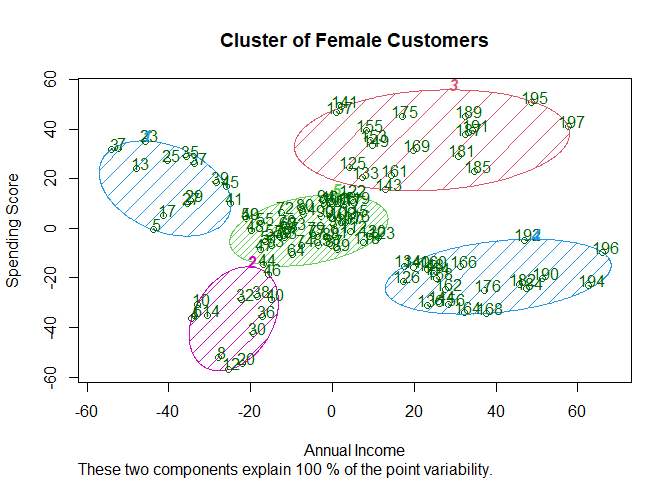
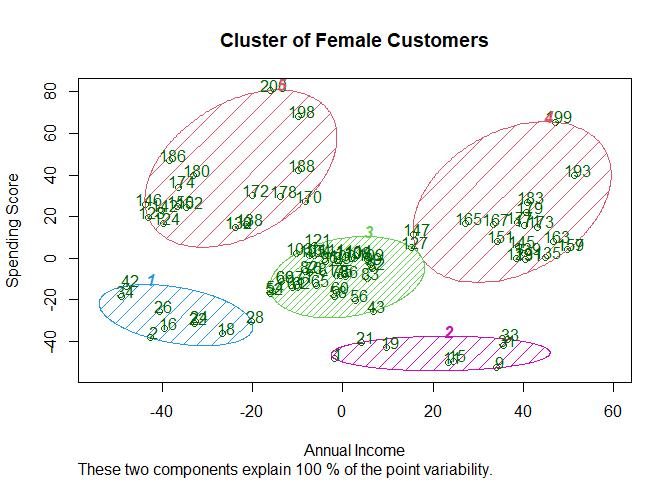
Cluster - KMeans

diff --git a/Cluster - KMeans/readme.md b/Cluster - KMeans/readme.md
@@ -13,7 +13,6 @@ library(ggplot2)
 ```
 
 
-
 ```r
 dataset<-read.csv('Mall_Customers.csv')
 head(dataset)
@@ -54,10 +53,22 @@ summary(dataset)
 
 ```r
 ggplot(data = dataset, aes(x = 'Annual Income (k$)', y = Age, fill = Genre)) + 
-        geom_violin()
+  geom_violin() +
+  ggtitle("Annual Income (k$)")
 ```
 
 ![](Customer-Segmentation_files/figure-html/unnamed-chunk-4-1.png)<!-- -->
+
+
+```r
+ggplot(data = dataset, aes(x = 'Spending Score (1-100)', y = Age, fill = Genre)) + 
+  geom_violin() +
+  ggtitle("Spending Score (1-100)")
+```
+
+![](Customer-Segmentation_files/figure-html/unnamed-chunk-5-1.png)<!-- -->
+
+## Two Features
 
 
 ```r
@@ -71,29 +82,99 @@ set.seed(12)
 wcss<-vector()
 
 for(i in 1:10) 
-        wcss[i]<- sum(kmeans(male, i)$withinss)
+  wcss[i]<- sum(kmeans(male, i)$withinss)
 plot(1:10, wcss, type="b", main=paste('Clusters vs. WCSS'),xlab='Number of Clusters for Male', ylab='Within Cluster Sum of Squares (WCSS)')
-```
-
-![](Customer-Segmentation_files/figure-html/unnamed-chunk-6-1.png)<!-- -->
-
-
-```r
-for(i in 1:10) 
-        wcss[i]<- sum(kmeans(female, i)$withinss)
-plot(1:10, wcss, type="b", main=paste('Clusters vs. WCSS'),xlab='Number of Clusters for Female', ylab='Within Cluster Sum of Squares (WCSS)')
 ```
 
 ![](Customer-Segmentation_files/figure-html/unnamed-chunk-7-1.png)<!-- -->
 
+
 ```r
-set.seed(29)
+for(i in 1:10) 
+  wcss[i]<- sum(kmeans(female, i)$withinss)
+plot(1:10, wcss, type="b", main=paste('Clusters vs. WCSS'),xlab='Number of Clusters for Female', ylab='Within Cluster Sum of Squares (WCSS)')
+```
+
+![](Customer-Segmentation_files/figure-html/unnamed-chunk-8-1.png)<!-- -->
+
+
+```r
 kmeans_male<-kmeans(male, 5,iter.max=300, nstart=10)
+kmeans_male
+```
+
+```
+## K-means clustering with 5 clusters of sizes 9, 8, 34, 19, 18
+## 
+## Cluster means:
+##   Annual.Income..k.. Spending.Score..1.100.
+## 1           25.77778               77.66667
+## 2           22.87500               17.62500
+## 3           54.73529               49.85294
+## 4           85.89474               12.94737
+## 5           87.11111               82.66667
+## 
+## Clustering vector:
+##   1   2   9  11  15  16  18  19  21  22  24  26  28  31  33  34  42  43  52  54 
+##   2   1   2   2   2   1   1   2   2   1   1   1   1   2   2   1   1   3   3   3 
+##  56  58  60  61  62  65  66  69  71  75  76  78  81  82  83  86  92  93  96  99 
+##   3   3   3   3   3   3   3   3   3   3   3   3   3   3   3   3   3   3   3   3 
+## 100 103 104 105 108 109 110 111 114 121 124 127 128 129 130 131 132 135 138 139 
+##   3   3   3   3   3   3   3   3   3   3   5   3   5   4   5   4   5   4   5   4 
+## 142 145 146 147 150 151 152 157 159 163 165 167 170 171 172 173 174 177 178 179 
+##   5   4   5   4   5   4   5   4   4   4   4   4   5   4   5   4   5   4   5   4 
+## 180 183 186 188 193 198 199 200 
+##   5   4   5   5   4   5   4   5 
+## 
+## Within cluster sum of squares by cluster:
+## [1] 1287.556 1762.750 3838.882 5948.737 8187.778
+##  (between_SS / total_SS =  83.8 %)
+## 
+## Available components:
+## 
+## [1] "cluster"      "centers"      "totss"        "withinss"     "tot.withinss"
+## [6] "betweenss"    "size"         "iter"         "ifault"
 ```
 
 
 ```r
 kmeans_female<-kmeans(female, 5,iter.max=300, nstart=10)
+kmeans_female
+```
+
+```
+## K-means clustering with 5 clusters of sizes 14, 13, 46, 18, 21
+## 
+## Cluster means:
+##   Annual.Income..k.. Spending.Score..1.100.
+## 1           27.35714               21.71429
+## 2           25.69231               80.53846
+## 3           54.54348               49.52174
+## 4           89.05556               23.72222
+## 5           86.04762               81.66667
+## 
+## Clustering vector:
+##   3   4   5   6   7   8  10  12  13  14  17  20  23  25  27  29  30  32  35  36 
+##   1   2   1   2   1   2   2   2   1   2   1   2   1   1   1   1   2   2   1   2 
+##  37  38  39  40  41  44  45  46  47  48  49  50  51  53  55  57  59  63  64  67 
+##   1   2   1   2   1   3   1   2   3   3   3   3   3   3   3   3   3   3   3   3 
+##  68  70  72  73  74  77  79  80  84  85  87  88  89  90  91  94  95  97  98 101 
+##   3   3   3   3   3   3   3   3   3   3   3   3   3   3   3   3   3   3   3   3 
+## 102 106 107 112 113 115 116 117 118 119 120 122 123 125 126 133 134 136 137 140 
+##   3   3   3   3   3   3   3   3   3   3   3   3   3   4   5   4   5   5   4   5 
+## 141 143 144 148 149 153 154 155 156 158 160 161 162 164 166 168 169 175 176 181 
+##   4   4   5   5   4   4   5   4   5   5   5   4   5   5   5   5   4   4   5   4 
+## 182 184 185 187 189 190 191 192 194 195 196 197 
+##   5   5   4   4   4   5   4   5   5   4   5   4 
+## 
+## Within cluster sum of squares by cluster:
+## [1] 2742.071 2188.000 5404.891 6552.556 5235.619
+##  (between_SS / total_SS =  84.2 %)
+## 
+## Available components:
+## 
+## [1] "cluster"      "centers"      "totss"        "withinss"     "tot.withinss"
+## [6] "betweenss"    "size"         "iter"         "ifault"
 ```
 
 
@@ -106,12 +187,13 @@ clusplot(male,
         labels = 2,
         plotchar = FALSE,
         span = TRUE,
-        main = paste('Cluster of Female Customers'),
+        main = 'Cluster of Female Customers',
         xlab = 'Annual Income',
         ylab = 'Spending Score')
 ```
 
-![](Customer-Segmentation_files/figure-html/unnamed-chunk-10-1.png)<!-- -->
+![](Customer-Segmentation_files/figure-html/unnamed-chunk-11-1.png)<!-- -->
+
 
 ```r
 clusplot(female,
@@ -122,9 +204,120 @@ clusplot(female,
         labels = 2,
         plotchar = FALSE,
         span = TRUE,
-        main = paste('Cluster of Female Customers'),
+        main = 'Cluster of Female Customers',
         xlab = 'Annual Income',
         ylab = 'Spending Score')
 ```
 
-![](Customer-Segmentation_files/figure-html/unnamed-chunk-11-1.png)<!-- -->
+![](Customer-Segmentation_files/figure-html/unnamed-chunk-12-1.png)<!-- -->
+
+## Three Features
+
+
+```r
+male <- subset(dataset, Genre == "Male")[3:5]
+female <- subset(dataset, Genre == "Female")[3:5]
+```
+
+
+```r
+set.seed(24)
+wcss<-vector()
+
+for(i in 1:10) 
+  wcss[i]<- sum(kmeans(male, i)$withinss)
+plot(1:10, wcss, type="b", main=paste('Clusters vs. WCSS'),xlab='Number of Clusters for Male', ylab='Within Cluster Sum of Squares (WCSS)')
+```
+
+![](Customer-Segmentation_files/figure-html/unnamed-chunk-14-1.png)<!-- -->
+
+
+```r
+for(i in 1:10) 
+  wcss[i]<- sum(kmeans(female, i)$withinss)
+plot(1:10, wcss, type="b", main=paste('Clusters vs. WCSS'),xlab='Number of Clusters for Female', ylab='Within Cluster Sum of Squares (WCSS)')
+```
+
+![](Customer-Segmentation_files/figure-html/unnamed-chunk-15-1.png)<!-- -->
+
+
+```r
+kmeans_male<-kmeans(male, 5,iter.max=300, nstart=10)
+kmeans_male
+```
+
+```
+## K-means clustering with 5 clusters of sizes 21, 18, 24, 7, 18
+## 
+## Cluster means:
+##        Age Annual.Income..k.. Spending.Score..1.100.
+## 1 23.47619           40.85714               63.04762
+## 2 38.83333           86.38889               11.66667
+## 3 56.00000           55.29167               47.70833
+## 4 52.57143           24.00000               14.57143
+## 5 33.27778           87.11111               82.66667
+## 
+## Clustering vector:
+##   1   2   9  11  15  16  18  19  21  22  24  26  28  31  33  34  42  43  52  54 
+##   1   1   4   4   4   1   1   4   4   1   1   1   1   4   4   1   1   3   1   3 
+##  56  58  60  61  62  65  66  69  71  75  76  78  81  82  83  86  92  93  96  99 
+##   3   3   3   3   1   3   1   1   3   3   1   3   3   3   3   3   1   3   1   3 
+## 100 103 104 105 108 109 110 111 114 121 124 127 128 129 130 131 132 135 138 139 
+##   1   3   1   3   3   3   3   3   1   1   5   3   5   2   5   2   5   2   5   2 
+## 142 145 146 147 150 151 152 157 159 163 165 167 170 171 172 173 174 177 178 179 
+##   5   2   5   3   5   2   5   2   2   2   2   2   5   2   5   2   5   2   5   2 
+## 180 183 186 188 193 198 199 200 
+##   5   2   5   5   2   5   2   5 
+## 
+## Within cluster sum of squares by cluster:
+## [1] 11514.762  8204.778  5635.917  2115.429  8515.389
+##  (between_SS / total_SS =  76.1 %)
+## 
+## Available components:
+## 
+## [1] "cluster"      "centers"      "totss"        "withinss"     "tot.withinss"
+## [6] "betweenss"    "size"         "iter"         "ifault"
+```
+
+
+```r
+kmeans_female<-kmeans(female, 5,iter.max=300, nstart=10)
+kmeans_female
+```
+
+```
+## K-means clustering with 5 clusters of sizes 14, 21, 13, 18, 46
+## 
+## Cluster means:
+##        Age Annual.Income..k.. Spending.Score..1.100.
+## 1 43.21429           27.35714               21.71429
+## 2 32.19048           86.04762               81.66667
+## 3 25.46154           25.69231               80.53846
+## 4 41.38889           89.05556               23.72222
+## 5 41.52174           54.54348               49.52174
+## 
+## Clustering vector:
+##   3   4   5   6   7   8  10  12  13  14  17  20  23  25  27  29  30  32  35  36 
+##   1   3   1   3   1   3   3   3   1   3   1   3   1   1   1   1   3   3   1   3 
+##  37  38  39  40  41  44  45  46  47  48  49  50  51  53  55  57  59  63  64  67 
+##   1   3   1   3   1   5   1   3   5   5   5   5   5   5   5   5   5   5   5   5 
+##  68  70  72  73  74  77  79  80  84  85  87  88  89  90  91  94  95  97  98 101 
+##   5   5   5   5   5   5   5   5   5   5   5   5   5   5   5   5   5   5   5   5 
+## 102 106 107 112 113 115 116 117 118 119 120 122 123 125 126 133 134 136 137 140 
+##   5   5   5   5   5   5   5   5   5   5   5   5   5   4   2   4   2   2   4   2 
+## 141 143 144 148 149 153 154 155 156 158 160 161 162 164 166 168 169 175 176 181 
+##   4   4   2   2   4   4   2   4   2   2   2   4   2   2   2   2   4   4   2   4 
+## 182 184 185 187 189 190 191 192 194 195 196 197 
+##   2   2   4   4   4   2   4   2   2   4   2   4 
+## 
+## Within cluster sum of squares by cluster:
+## [1]  4516.429  5424.857  2515.231  8314.833 15188.370
+##  (between_SS / total_SS =  77.2 %)
+## 
+## Available components:
+## 
+## [1] "cluster"      "centers"      "totss"        "withinss"     "tot.withinss"
+## [6] "betweenss"    "size"         "iter"         "ifault"
+```
+
+
